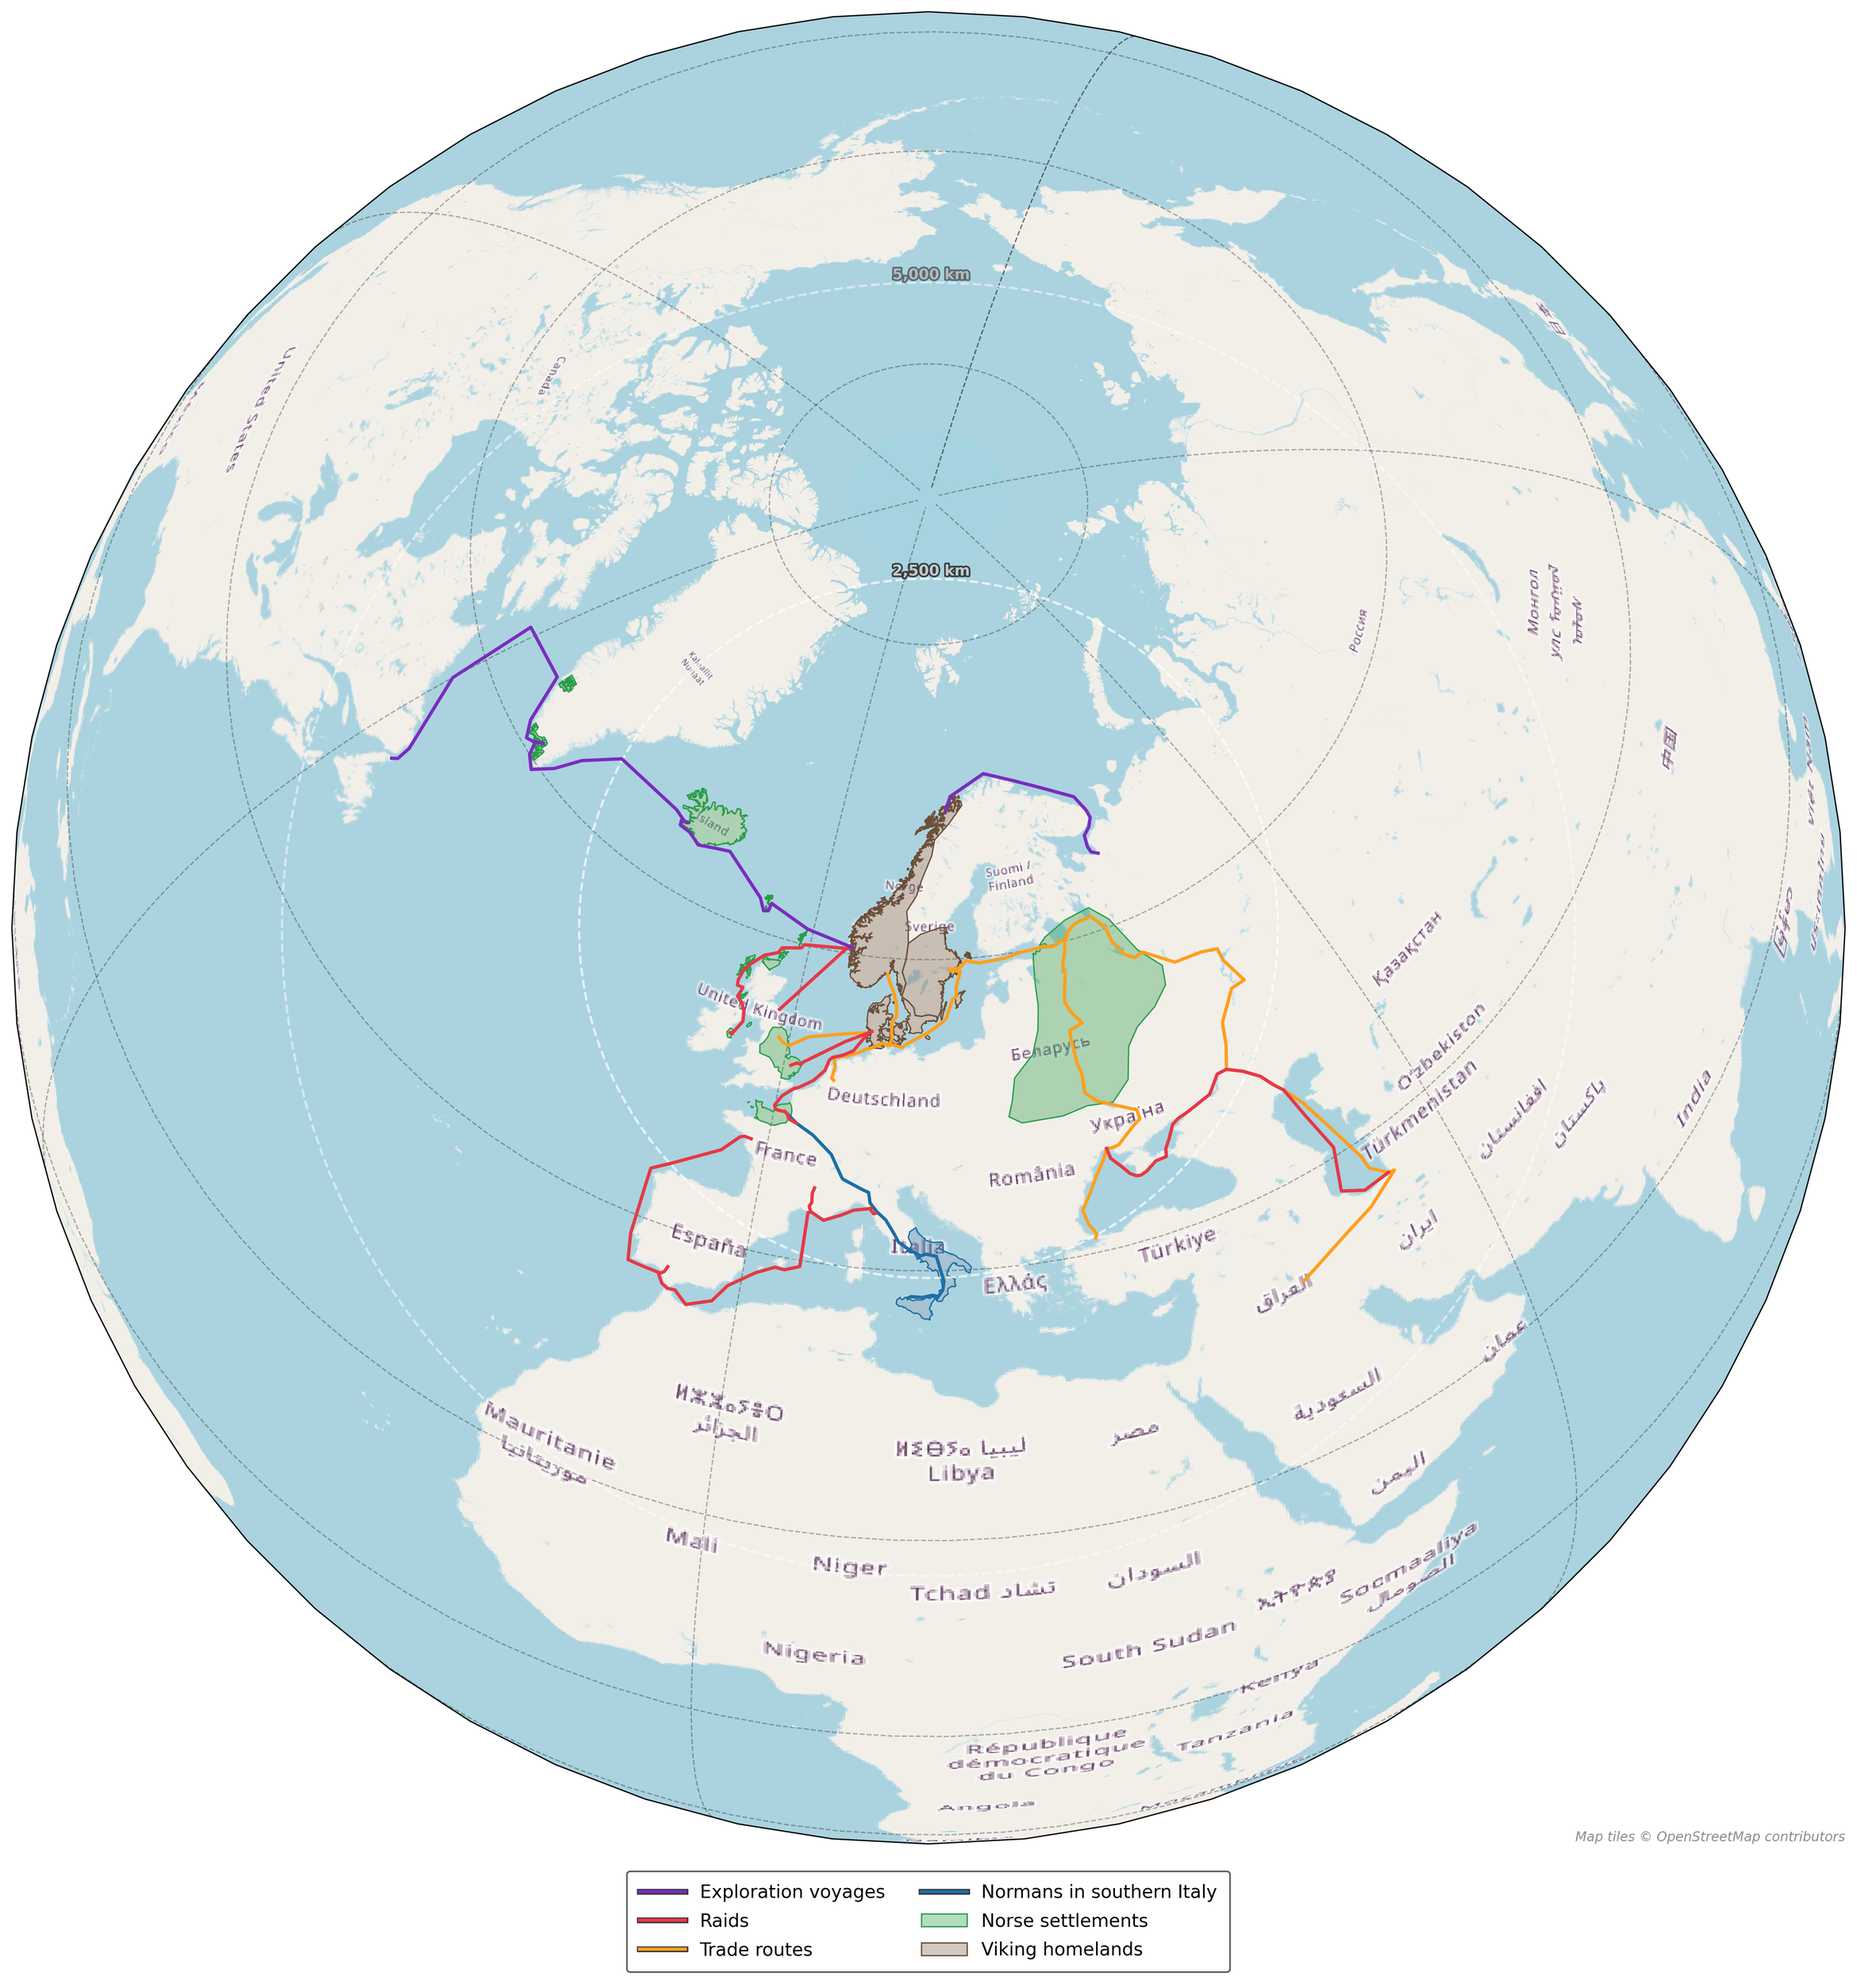
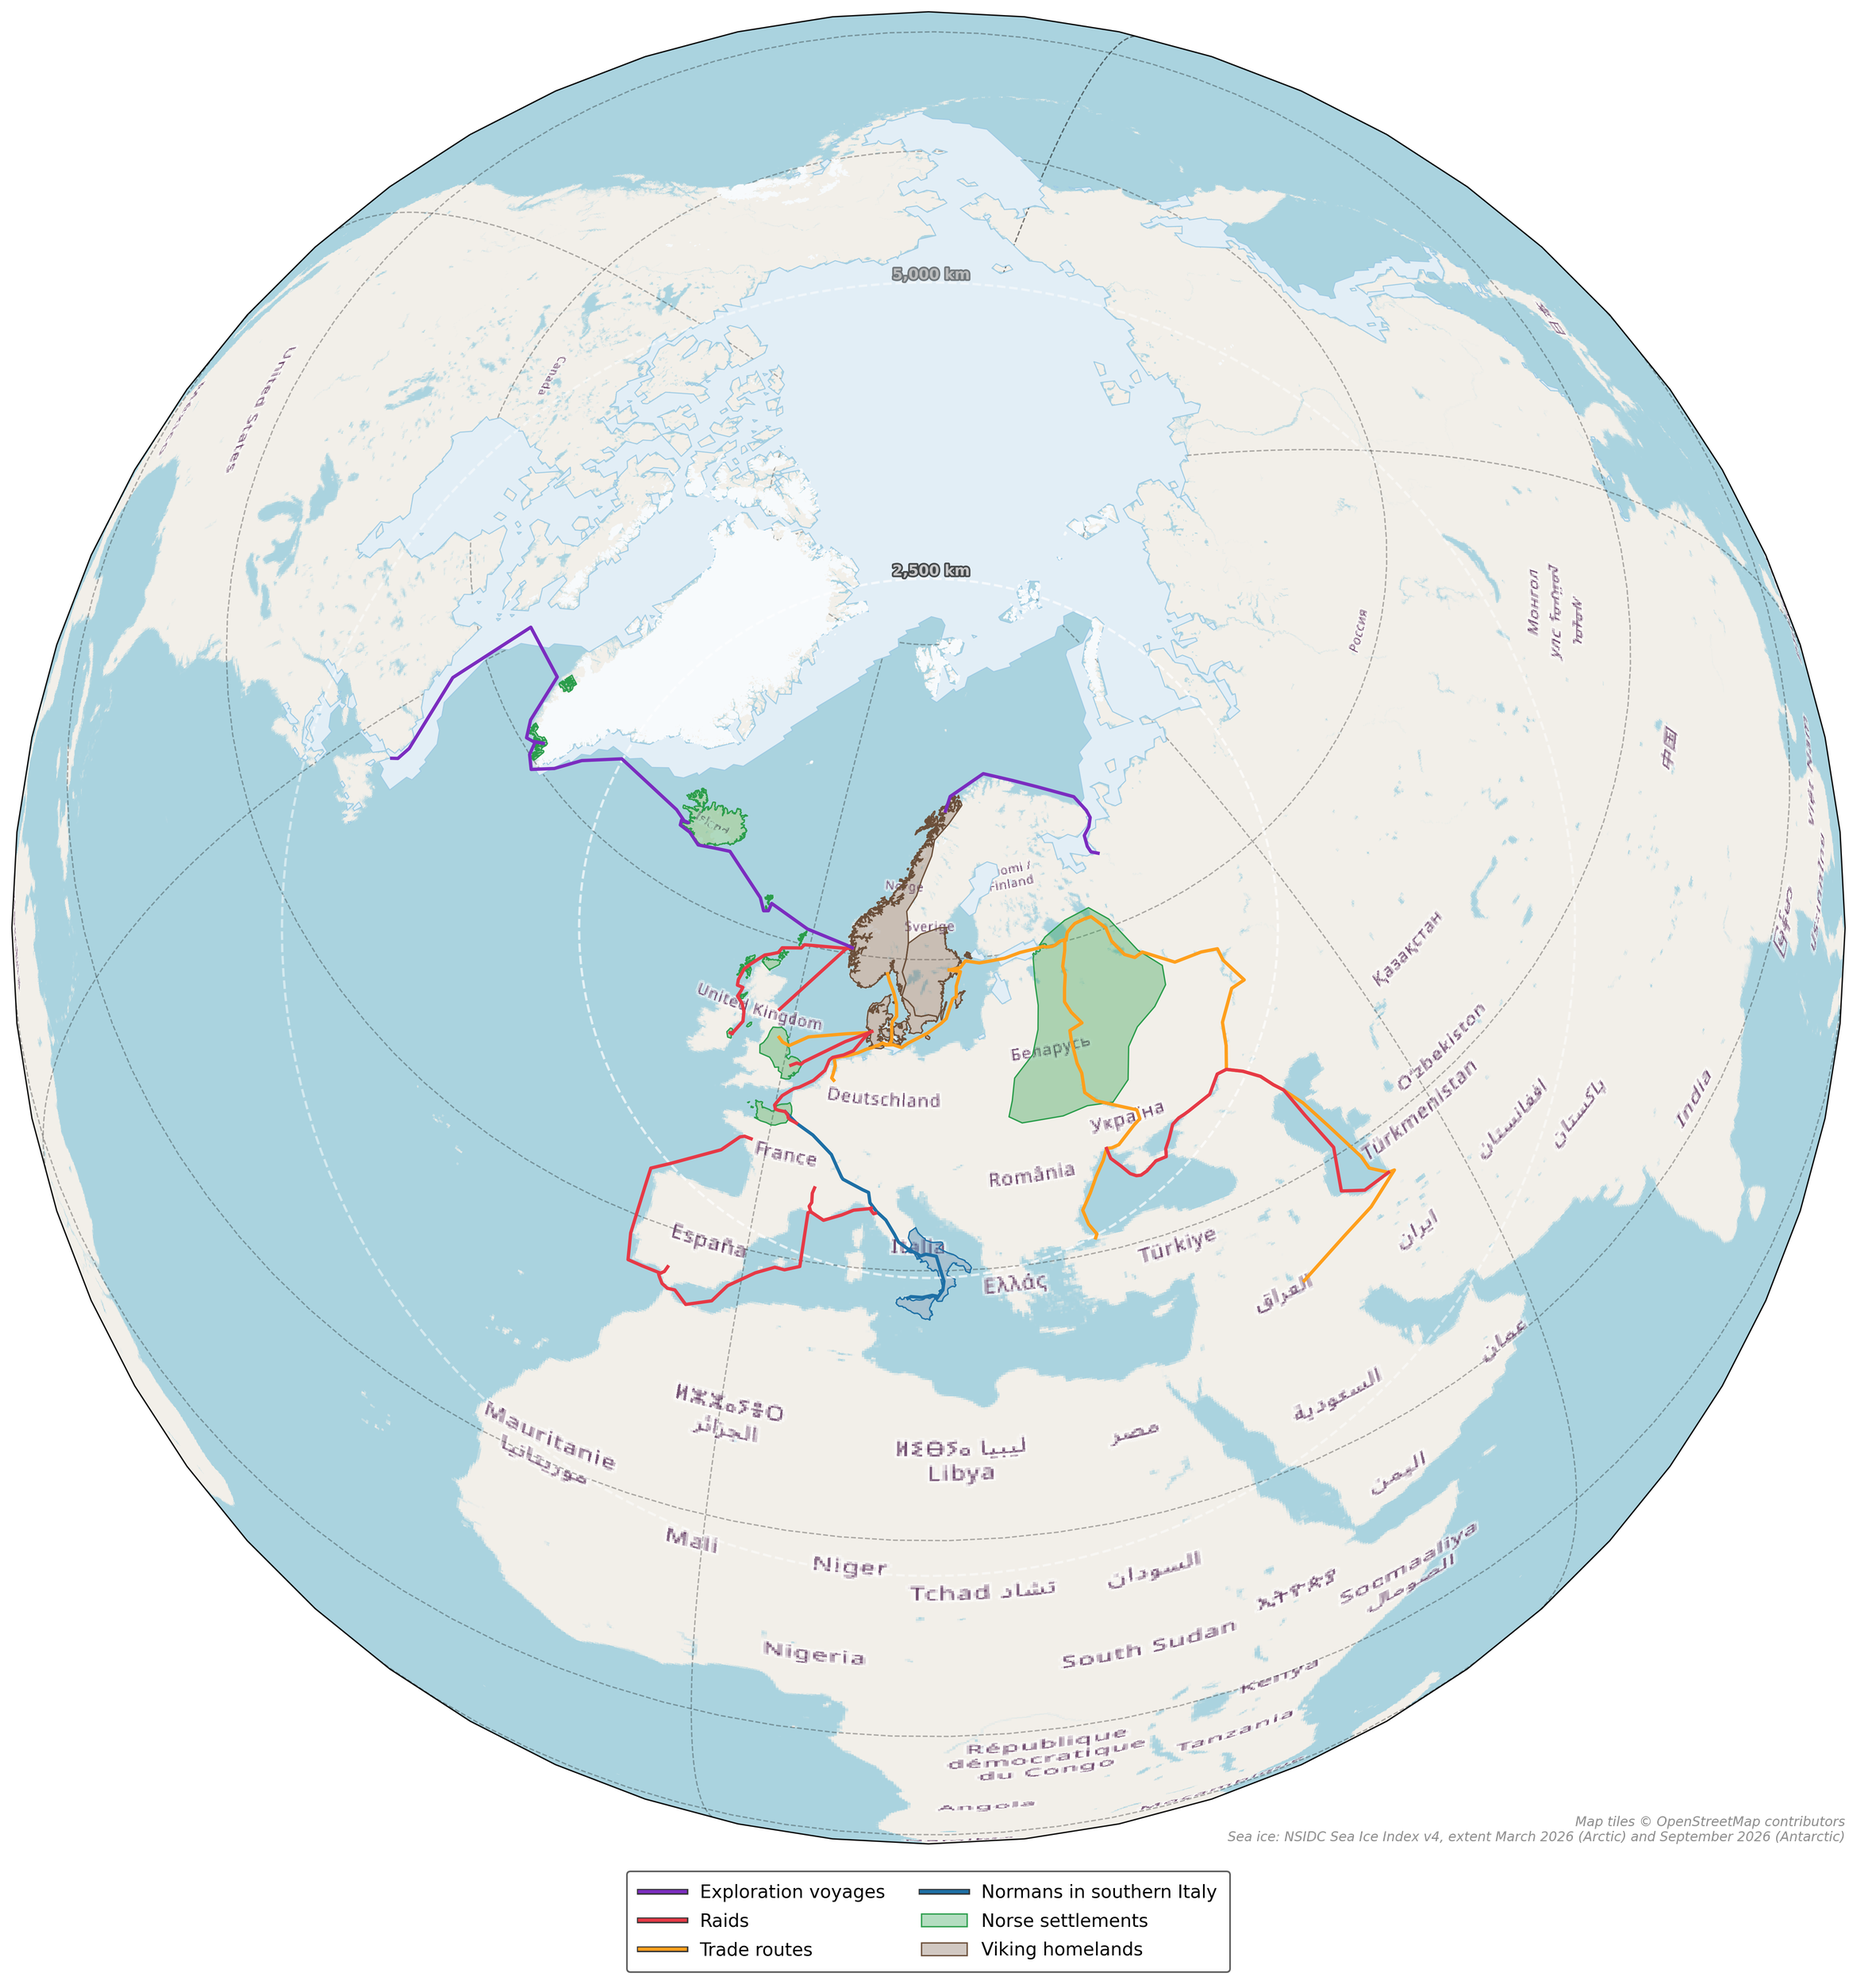
docs: add polar ice to the Viking sample and a both-hemispheres sample
Re-render the Viking sample with --ice, add the Portuguese voyages on
both hemispheres (no ice) as a full-width sample, and list the command
behind each historical sample.

diff --git a/README.md b/README.md
@@ -16,11 +16,17 @@ The main script is [ortho.py](ortho.py).
 
 <p align="center">
   <img src="sample_portuguese_voyages.png" alt="Satellite globe centred on Lisbon with the Portuguese voyages of discovery drawn in eight colours and a key naming each voyage" width="48%">
-  <img src="sample_viking_routes.png" alt="Globe centred on Scandinavia with Viking homelands, settlements, trade routes, raids and exploration voyages, and a key" width="48%">
+  <img src="sample_viking_routes.png" alt="Globe centred on Scandinavia with Viking homelands, settlements, trade routes, raids and exploration voyages, Arctic sea ice at its winter maximum, and a key" width="48%">
 </p>
 
 *Left: The Portuguese voyages of discovery, 1415–1522, centred on Lisbon (Google Satellite, zoom 3) with a route key.*<br>
-*Right: Viking Age homelands, settlements, trade, raids and exploration, centred on Scandinavia (OSM, zoom 3) with a route key.*
+*Right: Viking Age homelands, settlements, trade, raids and exploration, centred on Scandinavia (OSM, zoom 3) with a route key and polar ice at its winter maximum.*
+
+<p align="center">
+  <img src="sample_portuguese_hemispheres.png" alt="Two satellite globes side by side: Lisbon's hemisphere with the Portuguese voyages, and the opposite hemisphere centred on Lisbon's antipode showing Magellan's Pacific crossing and Elcano's return" width="97%">
+</p>
+
+*Both hemispheres: Lisbon's globe and, beside it, the globe centred on its antipode in the Tasman Sea, which shows Magellan's Pacific crossing and Elcano's return across the Indian Ocean (Google Satellite, zoom 3).*
 
 ## Features
 
@@ -345,12 +351,15 @@ When the Köppen-Geiger overlay is on, the route key goes below the climate key.
 | `viking_exploration.geojson` | purple | Faroes, Iceland and Greenland, Vinland, Ohthere's White Sea voyage |
 
 The Portuguese and Viking files carry `legend` labels, so they make compact keys.
-The two sample maps above were rendered with:
+The three historical sample maps above were rendered with:
 
 ```powershell
 python ortho.py --city lisbon --provider google_satellite --route routes/portuguese_explorers.geojson --route-legend
-python ortho.py --lat 62 --lon 15 --route routes/viking_homelands.geojson --route routes/viking_settlements.geojson --route routes/viking_trade.geojson --route routes/viking_raids.geojson --route routes/viking_exploration.geojson --route-legend
+python ortho.py --lat 62 --lon 15 --route routes/viking_homelands.geojson --route routes/viking_settlements.geojson --route routes/viking_trade.geojson --route routes/viking_raids.geojson --route routes/viking_exploration.geojson --route-legend --ice
+python ortho.py --city lisbon --provider google_satellite --route routes/portuguese_explorers.geojson --route-legend --both-hemispheres
 ```
+
+The ice on the Viking map is today's winter maximum, not the Viking Age's.
 
 The routes are approximate, drawn through documented landfalls and checked so
 that sea legs stay off land. The homeland and settlement areas are approximate
